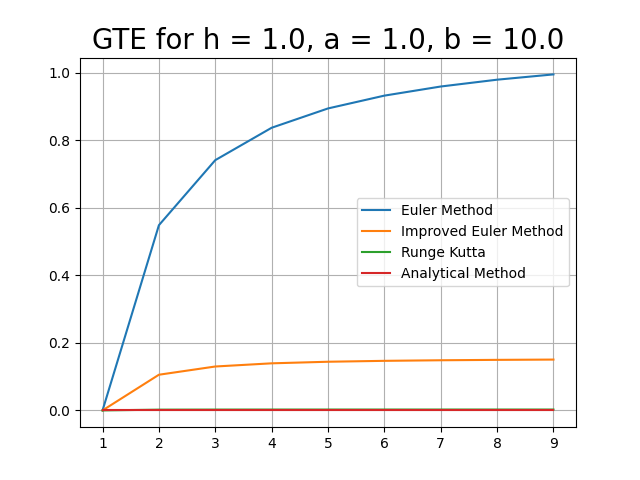
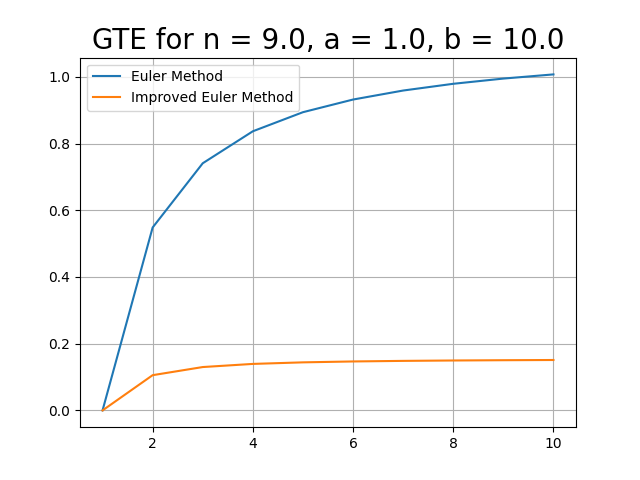
1.1
de.py: changed n and N meanings, deleted some asserts.
main.py: correct interface, added discription of input, added common strucure in the main tab.

diff --git a/de.py b/de.py
@@ -6,23 +6,24 @@ from numpy import exp
 class DE:
     def y_p(self,x,y,y_prim):
         return eval(y_prim)
-    def __init__(self,y_prime = "exp(y)-2/x", x_init = 1 , y_init = -2, X = 10, h = 1):
+    def __init__(self,y_prime = "exp(y)-2/x", x_init = 1 , y_init = -2, X = 10, n = 9):
         self.x_init = x_init
         assert self.x_init > 0, "x should bigger than 0" + str(self.x_init)
         self.y_init = y_init
         self.X = X
         assert self.X > self.x_init, "X should bigger than x_int"
-        self.h = h
-        assert self.h > 0, "h should bigger than 0"
+        self.n = n
+        assert self.n > 0, "n should bigger than 0"
+        self.h = (self.X-self.x_init)/self.n
         self.y_prime = y_prime
         self.C = 1/self.x_init - 1/(exp(self.y_init)*self.x_init**2)
-        self.x_arr = np.arange(self.x_init,self.X,self.h)
+        self.x_arr = np.arange(self.x_init,self.X+self.h, self.h)
 
 class Analytical_Method(DE):
     def y(self,x,C,y_fun):
         return eval(y_fun)
-    def __init__(self,y_prime = "exp(y)-2/x", x_init = 1 , y_init = -2, X = 10, h = 1, y_func = "log(1/(x-C*x**2))"):
-        DE.__init__(self,y_prime, x_init , y_init , X, h)
+    def __init__(self,y_prime = "exp(y)-2/x", x_init = 1 , y_init = -2, X = 10, n = 9, y_func = "log(1/(x-C*x**2))"):
+        DE.__init__(self,y_prime, x_init , y_init , X, n)
         self.y_func = y_func
         self.y_arr = np.array([self.y_init])
     def solve(self):
@@ -32,13 +33,13 @@ class Analytical_Method(DE):
         return  self.y_arr
 
 class Numerical_Method(DE):
-    def __init__(self,y_prime = "exp(y)-2/x", x_init = 1 , y_init = -2, X = 10, h = 1):
-        DE.__init__(self,y_prime, x_init , y_init , X, h)
+    def __init__(self,y_prime = "exp(y)-2/x", x_init = 1 , y_init = -2, X = 10, n = 9):
+        DE.__init__(self,y_prime, x_init , y_init , X, n)
         self.y_arr = np.array([self.y_init])
 
 class Euler_Method(Numerical_Method):
-    def __init__(self,y_prime = "exp(y)-2/x", x_init = 1 , y_init = -2, X = 10, h = 1):
-        Numerical_Method.__init__(self,y_prime, x_init , y_init , X, h)
+    def __init__(self,y_prime = "exp(y)-2/x", x_init = 1 , y_init = -2, X = 10, n = 9):
+        Numerical_Method.__init__(self,y_prime, x_init , y_init , X, n)
     def solve(self):
         self.y_arr = np.array([self.y_init])
         for i in range(self.x_arr.size-1):
@@ -51,8 +52,8 @@ class Euler_Method(Numerical_Method):
         return self.y_arr
 
 class Improved_Euler_Method(Numerical_Method):
-    def __init__(self,y_prime = "exp(y)-2/x", x_init = 1 , y_init = -2, X = 10, h = 1):
-        Numerical_Method.__init__(self,y_prime, x_init , y_init , X, h)
+    def __init__(self,y_prime = "exp(y)-2/x", x_init = 1 , y_init = -2, X = 10, n = 9):
+        Numerical_Method.__init__(self,y_prime, x_init , y_init , X, n)
     def IEM(self,x,y,h):
         return self.y_p(x,y,self.y_prime) + self.y_p(x+h,y + h*self.y_p(x,y,self.y_prime),self.y_prime)
     def solve(self):
@@ -73,8 +74,8 @@ class Runge_Kutta(Numerical_Method):
         k3 = self.y_p(x + h/2, y + h*k2/2,self.y_prime)
         k4 = self.y_p(x + h,y + h*k3,self.y_prime)
         return (k1 + 2*k2 + 2*k3 + k4)
-    def __init__(self,y_prime = "exp(y)-2/x", x_init = 1 , y_init = -2, X = 10, h = 1):
-        Numerical_Method.__init__(self,y_prime, x_init , y_init , X, h)
+    def __init__(self,y_prime = "exp(y)-2/x", x_init = 1 , y_init = -2, X = 10, n = 9):
+        Numerical_Method.__init__(self,y_prime, x_init , y_init , X, n)
     def solve(self):
         self.y_arr = np.array([self.y_init])
         for i in range(self.x_arr.size-1):
@@ -87,13 +88,13 @@ class Runge_Kutta(Numerical_Method):
         return self.y_arr
 
 class Grid(DE):
-    def __init__(self,y_prime = "exp(y)-2/x", x_init = 1 , y_init = -2, X = 10, h = 1, check = "1111"):
-        DE.__init__(self,y_prime, x_init , y_init , X, h)
+    def __init__(self,y_prime = "exp(y)-2/x", x_init = 1 , y_init = -2, X = 10, n = 9, check = "1111"):
+        DE.__init__(self,y_prime, x_init , y_init , X, n)
         self.check = check
-        self.em = Euler_Method(y_prime, x_init,y_init,X,h)
-        self.iem = Improved_Euler_Method(y_prime, x_init,y_init,X,h)
-        self.rk = Runge_Kutta(y_prime, x_init,y_init,X,h)
-        self.am = Analytical_Method(y_prime, x_init,y_init,X,h)
+        self.em = Euler_Method(y_prime, x_init,y_init,X,n)
+        self.iem = Improved_Euler_Method(y_prime, x_init,y_init,X,n)
+        self.rk = Runge_Kutta(y_prime, x_init,y_init,X,n)
+        self.am = Analytical_Method(y_prime, x_init,y_init,X,n)
 
     def plot_functions(self):
         self.ys = np.array([])
@@ -111,7 +112,7 @@ class Grid(DE):
             self.ys = np.append(self.ys, self.am.solve())
             self.names = np.append(self.names, "Analytical Method")
         if self.names.size > 0 : self.ys = np.array_split(self.ys, self.names.size)
-        plt.title("graphs for h = {0}, a = {1}, b = {2}".format(self.h, self.x_init, self.X), fontsize = 20,color = 'black')
+        plt.title("graphs for n = {0}, a = {1}, b = {2}".format(self.n, self.x_init, self.X), fontsize = 20,color = 'black')
         for i in range(self.names.size):
             plt.plot(self.x_arr,self.ys[i],label = self.names[i])
         if self.names.size > 0 : plt.legend()
@@ -123,6 +124,7 @@ class Grid(DE):
         return abs(y_ap - y_ex)
     def LTE(self, y_ap, y_ex):
         return abs(y_ap - y_ex)
+
     def plot_GTE(self):
         self.y_am = self.am.solve()
         self.ys_err = np.array([])
@@ -136,11 +138,8 @@ class Grid(DE):
         if self.check[2] == '1' :
             self.ys_err = np.append(self.ys_err, self.GTE(self.rk.solve(), self.y_am))
             self.names = np.append(self.names, "Runge Kutta")
-        if self.check[3] == '1' :
-            self.ys_err = np.append(self.ys_err, self.am.solve() - self.y_am)
-            self.names = np.append(self.names, "Analytical Method")
         if self.names.size > 0 : self.ys_err = np.array_split(self.ys_err, self.names.size)
-        plt.title("GTE for h = {0}, a = {1}, b = {2}".format(self.h, self.x_init, self.X), fontsize = 20,color = 'black')
+        plt.title("GTE for n = {0}, a = {1}, b = {2}".format(self.n, self.x_init, self.X), fontsize = 20,color = 'black')
         for i in range(self.names.size):
             plt.plot(self.x_arr,self.ys_err[i],label = self.names[i])
         if self.names.size > 0 : plt.legend()
@@ -161,11 +160,8 @@ class Grid(DE):
         if self.check[2] == '1' :
             self.ys_err = np.append(self.ys_err, self.LTE(self.rk.solve_LTE(self.y_am), self.y_am))
             self.names = np.append(self.names, "Runge Kutta")
-        if self.check[3] == '1' :
-            self.ys_err = np.append(self.ys_err, self.am.solve() - self.y_am)
-            self.names = np.append(self.names, "Analytical Method")
         if self.names.size > 0 : self.ys_err = np.array_split(self.ys_err, self.names.size)
-        plt.title("LTE for h = {0}, a = {1}, b = {2}".format(self.h, self.x_init, self.X), fontsize = 20,color = 'black')
+        plt.title("LTE for n = {0}, a = {1}, b = {2}".format(self.n, self.x_init, self.X), fontsize = 20,color = 'black')
         for i in range(self.names.size):
             plt.plot(self.x_arr,self.ys_err[i],label = self.names[i])
         if self.names.size > 0 : plt.legend()
@@ -173,9 +169,8 @@ class Grid(DE):
         plt.savefig("plot_LTE.png")
         return  plt.show()
 
-    def plot_max_GTE(self, H = 5, step = 0.1):
-        assert H > self.h , "H should be bigger then h"
-        assert H < self.X , "H should be less then X"
+    def plot_max_GTE(self, N = 30, step = 1):
+        assert N > self.n , "H should be bigger then h"
         assert step > 0, "step should be bigger then 0"
         self.names = np.array([])
         if self.check[0] == "1" :
@@ -185,8 +180,8 @@ class Grid(DE):
         if self.check[2] == "1" :
             self.names = np.append(self.names, "Runge Kutta")
         self.max_errs = []
-        self.h_arr = np.arange(self.h, H+step, step)
-        for i in self.h_arr:
+        self.n_arr = np.arange(self.n, N+step, step)
+        for i in self.n_arr:
             temp = Grid(self.y_prime, self.x_init, self.y_init, self.X, i, self.check)
             self.y_am = temp.am.solve()
             if self.check[0] == "1" :
@@ -196,9 +191,9 @@ class Grid(DE):
             if self.check[2] == "1" :
                 self.max_errs.append(max(self.GTE(temp.rk.solve(), self.y_am)))
         if self.names.size > 0 : self.max_errs = np.transpose(np.array_split(self.max_errs, self.max_errs.__len__()/self.names.size))
-        plt.title("GTE for h = {0},H = {1}, \nstep ={4}, a = {2}, b = {3}".format(self.h, H, self.x_init, self.X,step), fontsize = 20,color = 'black')
+        plt.title("GTE for n = {0},N = {1}, \nstep ={4}, a = {2}, b = {3}".format(self.n, N, self.x_init, self.X,step), fontsize = 20,color = 'black')
         for i in range(self.names.size):
-            plt.plot(self.h_arr, self.max_errs[i], label = self.names[i])
+            plt.plot(self.n_arr, self.max_errs[i], label = self.names[i])
         if self.names.size > 0 : plt.legend()
         plt.grid()
         plt.xlabel("step size")
@@ -206,9 +201,8 @@ class Grid(DE):
         plt.savefig("plot_max_GTE.png")
         return plt.show()
 
-    def plot_max_LTE(self, H = 5, step = 0.1):
-        assert H > self.h , "H should be bigger then h"
-        assert H < self.X , "H should be less then X"
+    def plot_max_LTE(self, N = 30, step = 1):
+        assert N > self.n , "H should be bigger then h"
         assert step > 0, "step should be bigger then 0"
         self.names = np.array([])
         if self.check[0] == "1" :
@@ -218,8 +212,8 @@ class Grid(DE):
         if self.check[2] == "1" :
             self.names = np.append(self.names, "Runge Kutta")
         self.max_errs = []
-        self.h_arr = np.arange(self.h, H+step, step)
-        for i in self.h_arr:
+        self.n_arr = np.arange(self.n, N+step, step)
+        for i in self.n_arr:
             temp = Grid(self.y_prime, self.x_init, self.y_init, self.X, i, self.check)
             self.y_am = temp.am.solve()
             if self.check[0] == "1" :
@@ -229,9 +223,9 @@ class Grid(DE):
             if self.check[2] == "1" :
                 self.max_errs.append(max(self.LTE(temp.rk.solve_LTE(self.y_am), self.y_am)))
         if self.names.size > 0 : self.max_errs = np.transpose(np.array_split(self.max_errs, self.max_errs.__len__()/self.names.size))
-        plt.title("LTE for h = {0},H = {1}, \nstep ={4}, a = {2}, b = {3}".format(self.h, H, self.x_init, self.X,step), fontsize = 20,color = 'black')
+        plt.title("LTE for h = {0},H = {1}, \nstep ={4}, a = {2}, b = {3}".format(self.n, N, self.x_init, self.X,step), fontsize = 20,color = 'black')
         for i in range(self.names.size):
-            plt.plot(self.h_arr, self.max_errs[i], label = self.names[i])
+            plt.plot(self.n_arr, self.max_errs[i], label = self.names[i])
         if self.names.size > 0 : plt.legend()
         plt.grid()
         plt.xlabel("step size")

diff --git a/main.py b/main.py
@@ -17,15 +17,15 @@ class Example(QMainWindow):
         self.x_init = 1
         self.y_init = -2
         self.x_end = 10
-        self.h = 1
-        self.H = 10
-        self.step = 0.1
+        self.n = 9
+        self.N = 30
+        self.step = 1
         self.check = "1111"
 
         self.initUI()
         self.setCentralWidget(self.centralWidget)
         self.move(300, 200)
-        self.setGeometry(500, 400, 500, 600)
+        self.setGeometry(500, 400, 700, 600)
         self.setWindowTitle('DE')
         self.show()
 
@@ -54,23 +54,48 @@ class Example(QMainWindow):
         self.a_param = self.textboxes(130, 412)
         self.y_param = self.textboxes(130, 442)
         self.b_param = self.textboxes(130, 472)
-        self.h_param = self.textboxes(130, 502)
-        self.H_param = self.textboxes(130, 532)
+        self.n_param = self.textboxes(130, 502)
+        self.N_param = self.textboxes(130, 532)
         self.step_param = self.textboxes(130, 562)
         self.b_exe = self.button_execute()
         self.b_exit = self.button_exit()
-        self.tab1.layout.addWidget(self.EulerCheckbox)
-        self.tab1.layout.addWidget(self.IEulerCheckbox)
-        self.tab1.layout.addWidget(self.RKCheckbox)
-        self.tab1.layout.addWidget(self.ExactCheckbox)
-        self.tab1.layout.addWidget(self.a_param)
-        self.tab1.layout.addWidget(self.y_param)
-        self.tab1.layout.addWidget(self.b_param)
-        self.tab1.layout.addWidget(self.h_param)
-        self.tab1.layout.addWidget(self.H_param)
-        self.tab1.layout.addWidget(self.step_param)
-        self.tab1.layout.addWidget(self.b_exe)
-        self.tab1.layout.addWidget(self.b_exit)
+
+        self.tab1_1 = QWidget()
+        self.tab1_1.layout = QVBoxLayout(self)
+        self.tab1_1.layout.addWidget(self.EulerCheckbox)
+        self.tab1_1.layout.addWidget(self.IEulerCheckbox)
+        self.tab1_1.layout.addWidget(self.RKCheckbox)
+        self.tab1_1.layout.addWidget(self.ExactCheckbox)
+        self.tab1.layout.addLayout(self.tab1_1.layout)
+
+        self.tab1_2 = QWidget()
+        self.tab1_2.layout = QHBoxLayout(self)
+        self.tab1_2_1 = QWidget()
+        self.tab1_2_1.layout = QVBoxLayout(self)
+        self.tab1_2_1.layout.addWidget(QLabel("x init (a) =",self))
+        self.tab1_2_1.layout.addWidget(QLabel("y init =",self))
+        self.tab1_2_1.layout.addWidget(QLabel("x end (b) =",self))
+        self.tab1_2_1.layout.addWidget(QLabel("n =",self))
+        self.tab1_2_1.layout.addWidget(QLabel("N =",self))
+        self.tab1_2_1.layout.addWidget(QLabel("step =",self))
+        self.tab1_2_2 = QWidget()
+        self.tab1_2_2.layout = QVBoxLayout(self)
+        self.tab1_2_2.layout.addWidget(self.a_param)
+        self.tab1_2_2.layout.addWidget(self.y_param)
+        self.tab1_2_2.layout.addWidget(self.b_param)
+        self.tab1_2_2.layout.addWidget(self.n_param)
+        self.tab1_2_2.layout.addWidget(self.N_param)
+        self.tab1_2_2.layout.addWidget(self.step_param)
+        self.tab1_2.layout.addLayout(self.tab1_2_1.layout)
+        self.tab1_2.layout.addLayout(self.tab1_2_2.layout)
+        self.tab1.layout.addLayout(self.tab1_2.layout)
+
+        self.tab1_3 = QWidget()
+        self.tab1_3.layout = QVBoxLayout(self)
+        self.tab1_3.layout.addWidget(self.b_exe)
+        self.tab1_3.layout.addWidget(self.b_exit)
+        self.tab1.layout.addLayout(self.tab1_3.layout)
+
 
         self.tab2.layout = QVBoxLayout(self)
         self.label2 = QLabel(self)
@@ -108,7 +133,7 @@ class Example(QMainWindow):
         self.tab4.setLayout(self.tab4.layout)
         self.tab5.setLayout(self.tab5.layout)
         self.tab6.setLayout(self.tab6.layout)
-        print(self.label6)
+        #print(self.label6)
 
     def button_exit(self):
         btn_exit = QPushButton('Exit', self)
@@ -150,28 +175,20 @@ class Example(QMainWindow):
         self.x_init = self.x_init if self.a_param.text() == "" else self.a_param.text()
         self.y_init = self.y_init if self.y_param.text() == "" else self.y_param.text()
         self.x_end = self.x_end if self.b_param.text() == "" else self.b_param.text()
-        self.h = self.h if self.h_param.text() == "" else self.h_param.text()
-        self.H = self.H if self.H_param.text() == "" else self.H_param.text()
+        self.n = self.n if self.n_param.text() == "" else self.n_param.text()
+        self.N = self.N if self.N_param.text() == "" else self.N_param.text()
         self.step = self.step if self.step_param.text() == "" else self.step_param.text()
-        de.Grid(x_init = double(self.x_init), y_init=double(self.y_init),
-                X= double(self.x_end), h = double(self.h),
-                check=self.check).plot_functions()
+        output = de.Grid(x_init = double(self.x_init), y_init=double(self.y_init),
+                X= double(self.x_end), n = double(self.n),check=self.check)
+        output.plot_functions()
 
-        de.Grid(x_init=double(self.x_init), y_init=double(self.y_init),
-                X=double(self.x_end), h=double(self.h),
-                check=self.check).plot_GTE()
+        output.plot_GTE()
 
-        de.Grid(x_init=double(self.x_init), y_init=double(self.y_init),
-                X=double(self.x_end), h=double(self.h),
-                check=self.check).plot_LTE()
+        output.plot_LTE()
 
-        de.Grid(x_init=double(self.x_init), y_init=double(self.y_init),
-                X=double(self.x_end), h=double(self.h),
-                check=self.check).plot_max_GTE()
+        output.plot_max_GTE(N=self.N,step=self.step)
 
-        de.Grid(x_init=double(self.x_init), y_init=double(self.y_init),
-                X=double(self.x_end), h=double(self.h),
-                check=self.check).plot_max_LTE()
+        output.plot_max_LTE(N=self.N,step=self.step)
 
         self.tab2.layout.removeWidget(self.label2)
         self.label2.setPixmap(QPixmap('plot_functions.png'))
